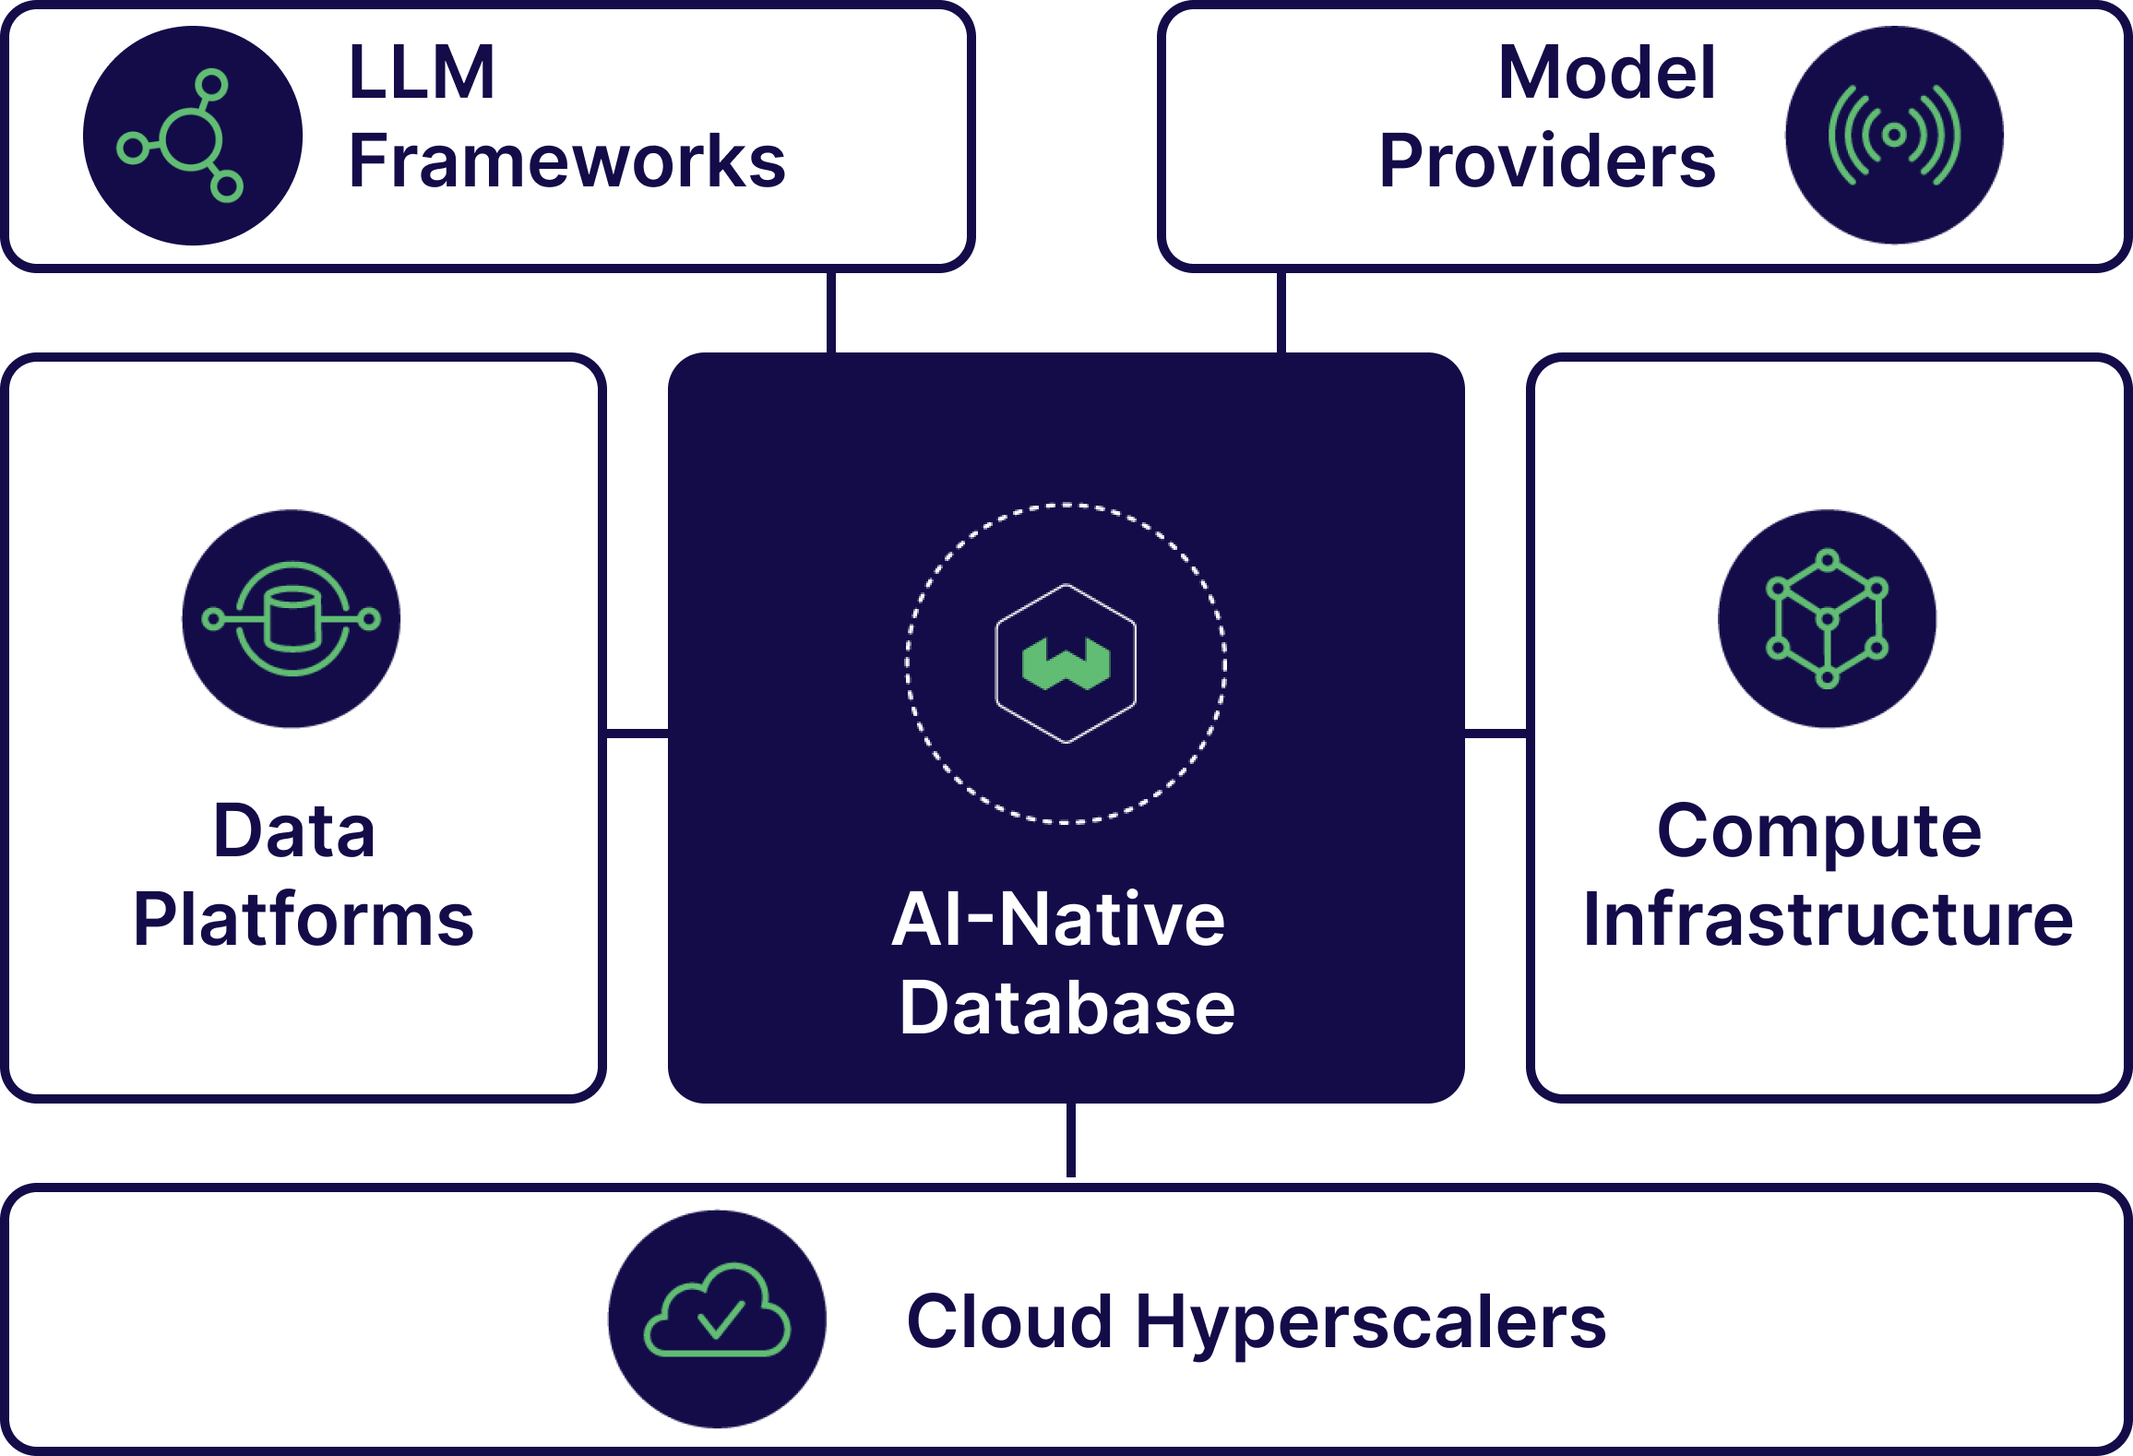
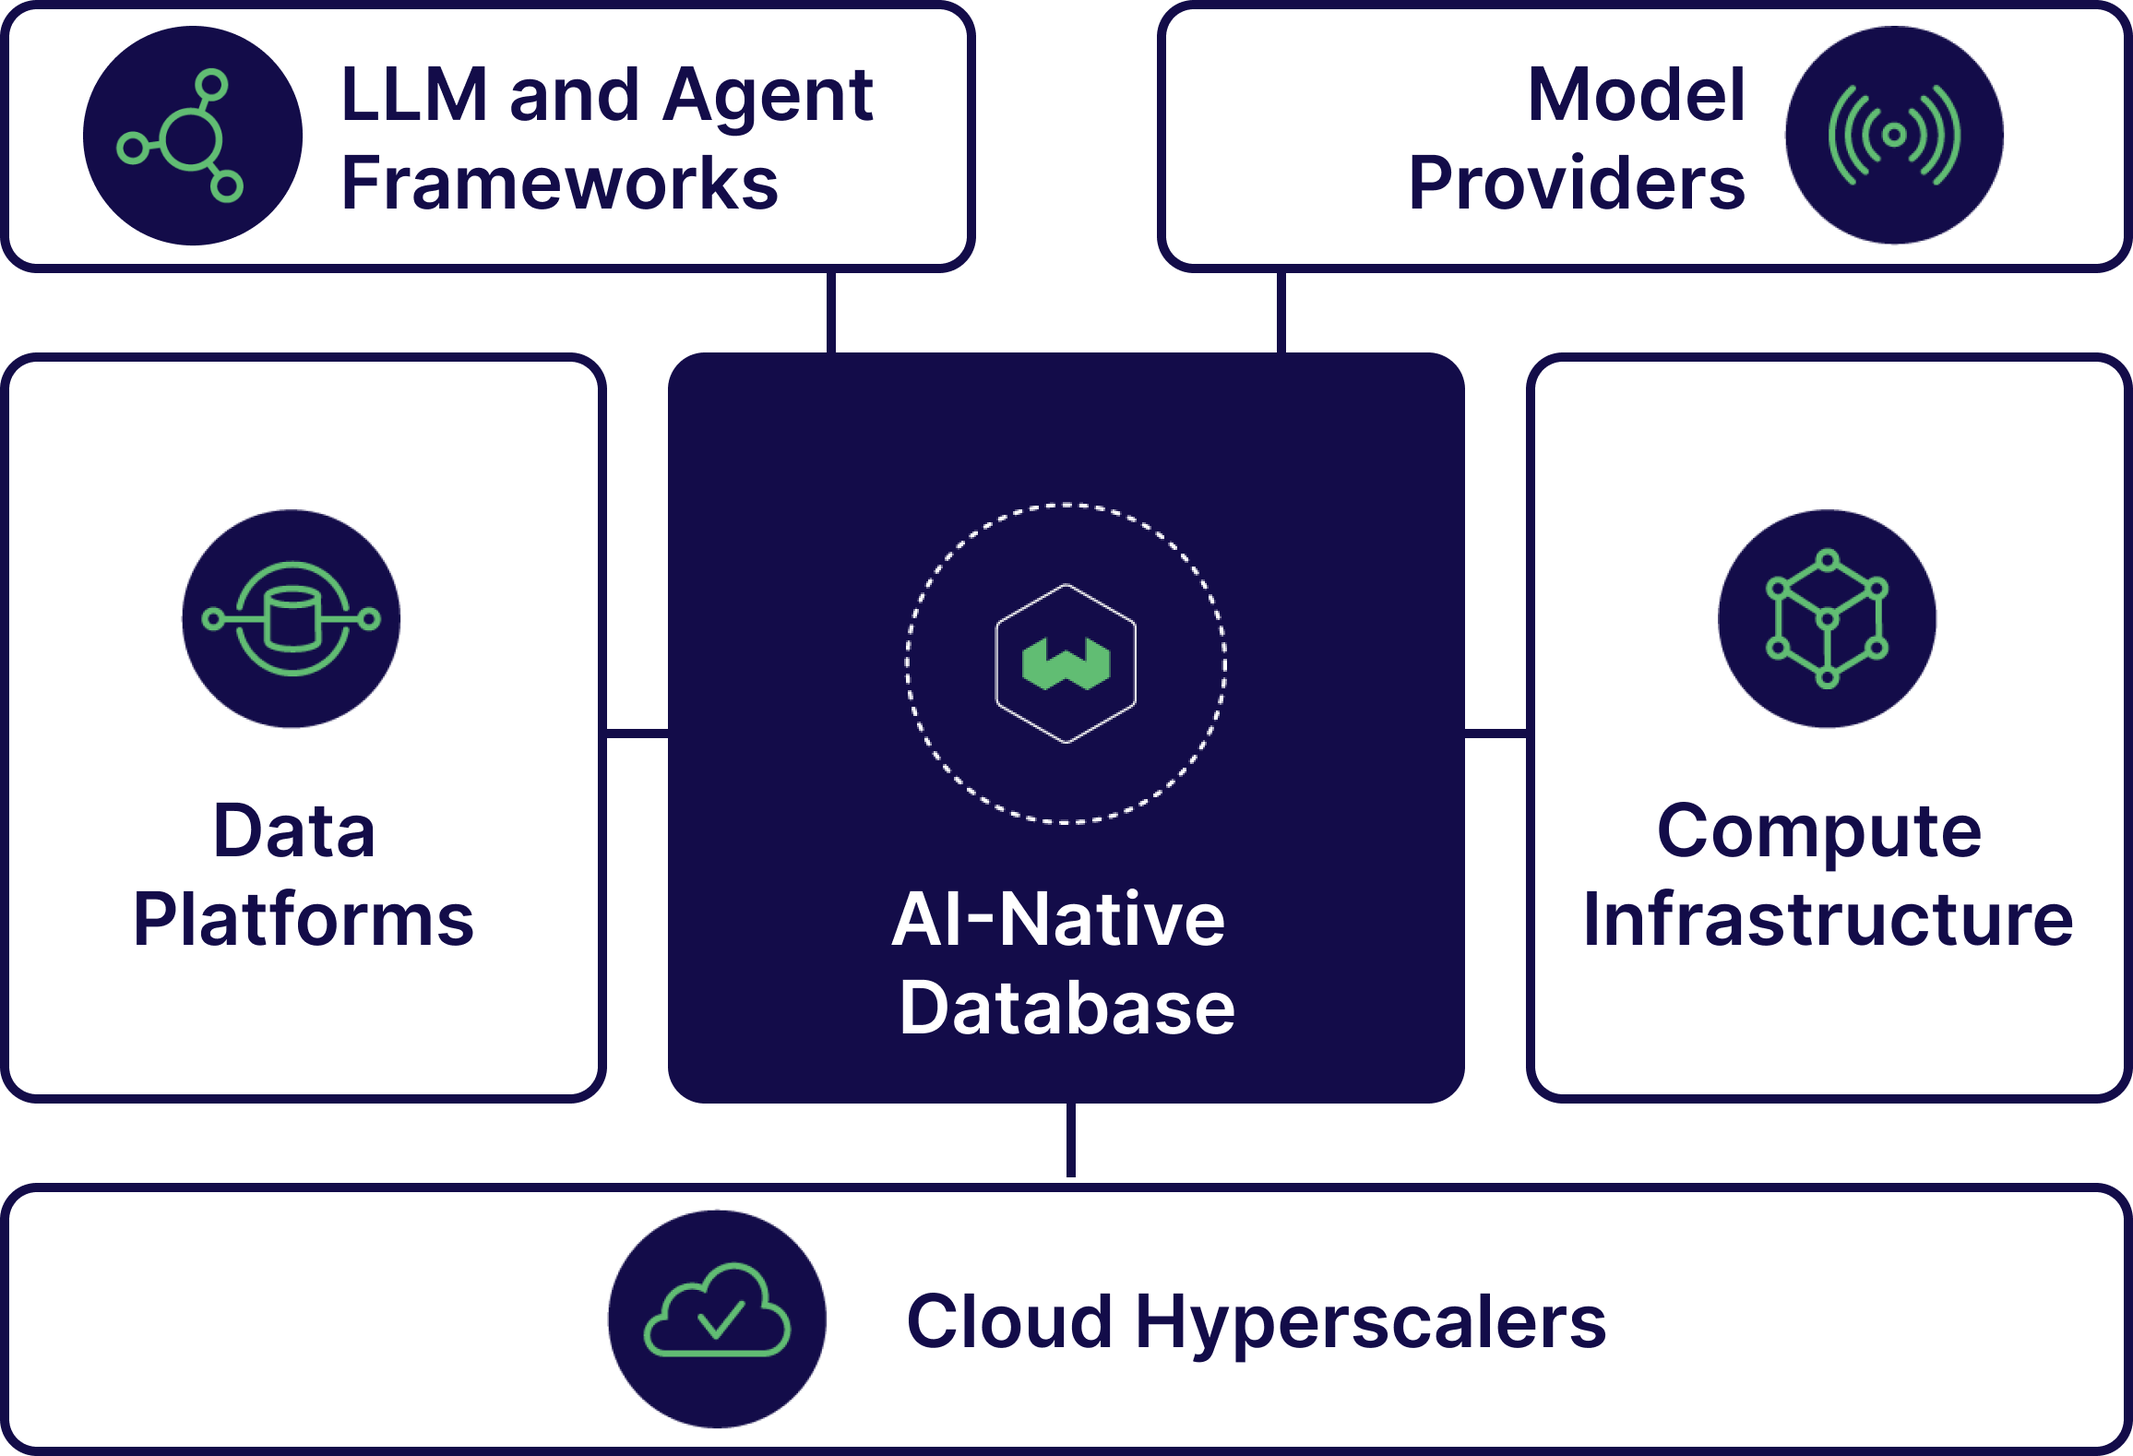
Migrate latest changes

Changed region(s): [[0.1557, 0.0311, 0.4048, 0.1553], [0.6228, 0.0311, 0.8408, 0.1553]]

diff --git a/docs/integrations/llm-agent-frameworks/dspy/index.md b/docs/integrations/llm-agent-frameworks/dspy/index.md
@@ -15,7 +15,7 @@ DSPy introduces two key concepts, the **programming model** and **optimizers**.
 
 Weaviate is integrated with DSPy through the retriever model! 
 
-Connect your Weaviate cluster (WCD or local instance) to DSPy, use the [retriever module](https://dspy.ai/deep-dive/retrieval_models_clients/WeaviateRM) and pass in your collection:
+Connect your Weaviate cluster (WCD or local instance) to DSPy, use the [retriever module](https://dspy-docs.vercel.app/docs/deep-dive/retrieval_models_clients/WeaviateRM) and pass in your collection:
 
 ```python
 weaviate_client = weaviate.Client("http://localhost:8080") # or pass in your WCD cluster url
@@ -39,15 +39,15 @@ The resources are broken into two categories:
 | --- | --- | --- |
 | Getting Started with RAG in DSPy | Learn about DSPy and how to build a program: Installation, settings, datasets, LLM metrics, DSPy programming model, and optimization. | [Notebook](https://github.com/weaviate/recipes/blob/main/integrations/llm-agent-frameworks/dspy/1.Getting-Started-with-RAG-in-DSPy.ipynb), [Video](https://youtu.be/CEuUG4Umfxs?si=4Gp8gR9glmoMJNaU) |
 | DSPy + Weaviate for the Next Generation of LLM Apps | Build a 4-layer DSPy program for generating blog posts from queries. | [Notebook](https://github.com/weaviate/recipes/blob/main/integrations/llm-agent-frameworks/dspy/2.Writing-Blog-Posts-with-DSPy.ipynb), [Video](https://youtu.be/ickqCzFxWj0?si=AxCbD9tq2cbAH6bB)|
-| RAG with Persona | Build a compound AI system with DSPy, Cohere, and Weaviate, where you'll add a persona to the language model. | [Notebook](https://github.com/weaviate/recipes/blob/main/integrations/llm-agent-frameworks/dspy/fullstack-recipes/RAGwithPersona/4.RAG-with-Persona.ipynb), [Post](https://x.com/ecardenas300/status/1765444492348243976)|
+| RAG with Persona | Build a compound AI system with DSPy, Cohere, and Weaviate, where you'll add a persona to the language model. | [Notebook](https://github.com/weaviate/recipes/blob/main/integrations/llm-agent-frameworks/dspy/fullstack-recipes/RAGwithPersona/4.RAG-with-Persona.ipynb), [Post](https://twitter.com/ecardenas300/status/1765444492348243976)|
 | Adding Depth to RAG Programs | Enhancing DSPy programs by integrating unique input-output examples and multiple LLMs. | [Notebook](https://github.com/weaviate/recipes/blob/main/integrations/llm-agent-frameworks/dspy/3.Adding-Depth-to-RAG-Programs.ipynb), [Video](https://youtu.be/0c7Ksd6BG88?si=YUF2wm1ncUTkSuPQ) |
-| Hurricane: Writing Blog Posts with Generative Feedback Loops | Introduction to Hurricane, a web app for demonstrating generative feedback loops with blog posts. | [Notebook](https://github.com/weaviate-tutorials/Hurricane), [Blog](https://weaviate.io/blog/hurricane-generative-feedback-loops) |
+| Hurricane: Writing Blog Posts with Generative Feedback Loops | Introduction to Hurricane, a web app for demonstrating generative feedback loops with blog posts. | [Notebook](https://github.com/weaviate-tutorials/Hurricane), [Blog](/blog/hurricane-generative-feedback-loops) |
 | Structured Outputs with DSPy | The three methods for structuring outputs in DSPy programs. | [Notebook](https://github.com/weaviate/recipes/blob/main/integrations/llm-agent-frameworks/dspy/4.Structured-Outputs-with-DSPy.ipynb), [Video](https://youtu.be/tVw3CwrN5-8?si=P7fWeXzQ7p-2SFYF) |
-| Building RAG with Command R+ from Cohere, DSPy, and Weaviate | Overview of Command R+ with a quick RAG demo in DSPy. | [Notebook](https://github.com/weaviate/recipes/blob/main/integrations/llm-agent-frameworks/dspy/llms/Command-R-Plus.ipynb), [Video](https://youtu.be/6dgXALb_5Ag?si=nSX2AnmpbUau_2JF) |
+| Building RAG with Command R+ from Cohere, DSPy, and Weaviate | Overview of Command R+ with a quick RAG demo in DSPy. | [Notebook](https://github.com/weaviate/recipes/blob/main/integrations/llm-agent-frameworks/dspy/llms/Command-R-Plus.ipynbb), [Video](https://youtu.be/6dgXALb_5Ag?si=nSX2AnmpbUau_2JF) |
 | Advanced Optimizers in DSPy | Dive into optimizing DSPy programs with various techniques. | [Notebook](https://github.com/weaviate/recipes/blob/main/integrations/llm-agent-frameworks/dspy/5.Advanced-Optimizers.ipynb) |
 | Llama 3 RAG Demo with DSPy Optimization, Ollama, and Weaviate | Integrating Llama3 with DSPy and optimizing prompts with MIPRO. | [Notebook](https://github.com/weaviate/recipes/blob/main/integrations/llm-agent-frameworks/dspy/llms/Llama3.ipynb), [Video](https://youtu.be/1h3_h8t3L14?si=G4d-aY5Ynpv8ckea)|
 | BigQuery and Weaviate orchestrated with DSPy | Build an end-to-end RAG pipeline that uses BigQuery and Weaviate using DSPy. | [Notebook](https://github.com/weaviate/recipes/blob/main/integrations/cloud-hyperscalers/google/bigquery/BigQuery-Weaviate-DSPy-RAG.ipynb)|
-
+| DSPy and Weaviate Query Agent | Use the Query Agent as a Tool with DSPy | [Notebook](https://github.com/weaviate/recipes/blob/main/integrations/llm-agent-frameworks/dspy/agents/simple-query-agent-tool.ipynb) |
 
 
 ### Read and Listen
@@ -58,8 +58,8 @@ The resources are broken into two categories:
 | DSPy Explained| Learn about the core concepts of DSPy. Walk through the introduction notebooks to compile a simple retrieve-then-read RAG program and Multi-Hop RAG Program. | [Video](https://youtu.be/41EfOY0Ldkc?si=sFieUeHc9rXRn6uk)|
 | XMC.dspy with Karel D'Oosterlinck - Weaviate Podcast #87 | Karel D'Oosterlinck joins the Weaviate podcast to discuss IReRa (Infer-Retrieve-Rank). | [Video](https://youtu.be/_ye26_8XPcs?si=ZBodgHbOcaq2Kwky)
 | Intro to DSPy: Goodbye Prompting, Hello Programming | Overview of DSPy and how it solves the fragility problem in LLM-based applications. | [Blog](https://towardsdatascience.com/intro-to-dspy-goodbye-prompting-hello-programming-4ca1c6ce3eb9)|
-| Fine-Tuning Cohere’s Reranker | Generate synthetic data with DSPy to fine-tune Cohere’s reranker model. |[Blog](https://weaviate.io/blog/fine-tuning-coheres-reranker)|
-| Your Language Model Deserves Better Prompting | Overview of the DSPy optimizers for prompt tuning. | [Blog](https://weaviate.io/blog/dspy-optimizers)|
+| Fine-Tuning Cohere’s Reranker | Generate synthetic data with DSPy to fine-tune Cohere’s reranker model. |[Blog](/blog/fine-tuning-coheres-reranker)|
+| Your Language Model Deserves Better Prompting | Overview of the DSPy optimizers for prompt tuning. | [Blog](/blog/dspy-optimizers)|
 
 
 ## Questions and feedback

diff --git a/docs/integrations/llm-agent-frameworks/llamaindex/index.md b/docs/integrations/llm-agent-frameworks/llamaindex/index.md
@@ -1,7 +1,7 @@
 ---
 title: LlamaIndex
 sidebar_position: 5
-image: og/integrations/llamaindex.jpg
+image: og/docs/llamaindex.jpg
 ---
 
 [LlamaIndex](https://www.llamaindex.ai/) is a framework for building large language model (LLM) applications. 
@@ -29,12 +29,13 @@ The resources are broken into two categories:
 | Indexes in LlamaIndex | Learn about the various indexes you can build in LlamaIndex. | [Notebook](https://github.com/weaviate/recipes/blob/main/integrations/llm-agent-frameworks/llamaindex/indexes-episode2/indexes-in-llamaindex.ipynb) |
 | Recursive Query Engine | Learn how to build a recursive query engine. | [Notebook](https://github.com/weaviate/recipes/blob/main/integrations/llm-agent-frameworks/llamaindex/recursive-query-engine/recursive-retrieval.ipynb) |
 | Self Correcting Query Engine | Setup your vector store and build a self-correcting query engine. | [Notebook](https://github.com/weaviate/recipes/blob/main/integrations/llm-agent-frameworks/llamaindex/self-correcting-query-engine/self-correcting.ipynb) | 
-| Simple Query Engine | Build a simple query engine | [Notebook](https://github.com/weaviate/recipes/blob/main/integrations/llm-agent-frameworks/llamaindex/simple-query-engine/simple-query-engine.ipynb) |
+| Simple Query Engine | Build a simple query engine | [Notebook](https://github.com/weaviate/recipes/tree/main/integrations/llm-agent-frameworks/llamaindex/simple-query-engine) |
 | SQL Router Query Engine | Build a SQL Query Engine to search through your vector and SQL database. | [Notebook](https://github.com/weaviate/recipes/blob/main/integrations/llm-agent-frameworks/llamaindex/sql-router-query-engine/sql-query-router.ipynb) |
-| Sub-Question Query Engine | Build a query engine that will break down a complex question into multiple parts. | [Notebook](https://github.com/weaviate/recipes/blob/main/integrations/llm-agent-frameworks/llamaindex/sub-question-query-engine/sub_question_query_engine.ipynb) |
+| Sub-Question Query Engine | Build a query engine that will break down a complex question into multiple parts. | [Notebook](https://github.com/weaviate/recipes/blob/main/integrations/llm-agent-frameworks/llamaindex/sub-question-query-engine/sub_question_query_enginev1.ipynb) |
 | Advanced RAG | This notebook walks you through an advanced Retrieval-Augmented Generation (RAG) pipeline using LlamaIndex and Weaviate. | [Notebook](https://github.com/weaviate/recipes/blob/main/integrations/llm-agent-frameworks/llamaindex/retrieval-augmented-generation/advanced_rag.ipynb) | 
-| Naive RAG | This notebook walks you through a naive Retrieval-Augmented Generation (RAG) pipeline using LlamaIndex and Weaviate. | [Notebook](https://github.com/weaviate/recipes/blob/main/integrations/llm-agent-frameworks/llamaindex/retrieval-augmented-generation/naive_rag.ipynb)
-
+| Naive RAG | This notebook walks you through a naive Retrieval-Augmented Generation (RAG) pipeline using LlamaIndex and Weaviate. | [Notebook](https://github.com/weaviate/recipes/blob/main/integrations/llm-agent-frameworks/llamaindex/retrieval-augmented-generation/naive_rag.ipynb) |
+| Agent vs No Agent | Learn the difference between naive RAG, and an agent that has RAG tools. | [Notebook](https://github.com/weaviate/recipes/blob/main/integrations/llm-agent-frameworks/llamaindex/agents/llama-index-weaviate-assistant-agent.ipynb) |
+| LlamaIndex and Weaviate Query Agent | Use the Query Agent as a tool with the LlamaIndex `AgentWorkflow`. | [Notebook](https://github.com/weaviate/recipes/blob/main/integrations/llm-agent-frameworks/llamaindex/agents/agent-workflow-with-weaviate-query-agent-.ipynb) | 
 
 
 ### Read and Listen 

diff --git a/docs/integrations/index.md b/docs/integrations/index.md
@@ -21,7 +21,7 @@ The ecosystem is divided into these categories:
 * **Cloud Hyperscalers** - Large-scale computing and storage
 * **Compute Infrastructure** - Run and scale containerized applications
 * **Data Platforms** - Data ingestion and web scraping 
-* **LLM Frameworks** - Build generative AI applications
+* **LLM and Agent Frameworks** - Build agents and generative AI applications
 * **Operations** - Tools for monitoring and analyzing generative AI workflows
 
 
@@ -33,7 +33,7 @@ The ecosystem is divided into these categories:
 | Cloud Hyperscalers | [AWS](/docs/integrations/cloud-hyperscalers/aws), [Google](/docs/integrations/cloud-hyperscalers/google)|
 | Compute Infrastructure | [Modal](/docs/integrations/compute-infrastructure/modal), [Replicate](/docs/integrations/compute-infrastructure/replicate) |
 | Data Platforms |[Airbyte](/docs/integrations/data-platforms/airbyte), [Aryn](/docs/integrations/data-platforms/aryn/), [Confluent Cloud](/docs/integrations/data-platforms/confluent-cloud), [Astronomer](/docs/integrations/data-platforms/astronomer), [Context Data](/docs/integrations/data-platforms/context-data/), [Databricks](/docs/integrations/data-platforms/databricks/), [Firecrawl](/docs/integrations/data-platforms/firecrawl), [IBM](/docs/integrations/data-platforms/ibm/),  [Unstructured](/docs/integrations/data-platforms/unstructured) |
-| LLM Frameworks | [Composio](/docs/integrations/llm-frameworks/composio/), [DSPy](/docs/integrations/llm-frameworks/dspy/), [Haystack](/docs/integrations/llm-frameworks/haystack/), [LangChain](/docs/integrations/llm-frameworks/langchain/), [LlamaIndex](/docs/integrations/llm-frameworks/llamaindex/), [Semantic Kernel](/docs/integrations/llm-frameworks/semantic-kernel/) |
+| LLM and Agent Frameworks | [Composio](/docs/integrations/llm-agent-frameworks/composio/), [DSPy](/docs/integrations/llm-agent-frameworks/dspy/), [Haystack](/docs/integrations/llm-agent-frameworks/haystack/), [LangChain](/docs/integrations/llm-agent-frameworks/langchain/), [LlamaIndex](/docs/integrations/llm-agent-frameworks/llamaindex/), [Semantic Kernel](/docs/integrations/llm-agent-frameworks/semantic-kernel/) |
 | Operations | [Arize](/docs/integrations/operations/arize/), [Langtrace](/docs/integrations/operations/langtrace/), [LangWatch](/docs/integrations/operations/langwatch/), [Nomic](/docs/integrations/operations/nomic/), [Ragas](/docs/integrations/operations/ragas/), [Weights & Biases](/docs/integrations/operations/wandb/) |
 
 ## Model Provider Integrations 

diff --git a/docs/integrations/llm-agent-frameworks/langchain/index.md b/docs/integrations/llm-agent-frameworks/langchain/index.md
@@ -27,6 +27,7 @@ The resources are broken into two categories:
 | LangChain LCEL | A notebook that defines a language program with LangChain LCEL, compiles it with DSPy, and converts it back to LangChain LCEL. | [Notebook](https://github.com/weaviate/recipes/blob/main/integrations/llm-agent-frameworks/langchain/LCEL/RAG-with-LangChain-LCEL-and-DSPy.ipynb) |
 | LangChain and Multi-Tenancy | Build a multi-language RAG by multiple PDFs per tenant with Langchain, OpenAI, and Weaviate. | [Notebook](https://github.com/weaviate/recipes/blob/main/integrations/llm-agent-frameworks/langchain/loading-data/langchain-simple-pdf-multitenant.ipynb) |
 | Multi-Language RAG | Simple notebook showing you how to build a RAG application using LangChain and Weaviate. | [Notebook](https://github.com/weaviate/recipes/blob/main/integrations/llm-agent-frameworks/langchain/loading-data/langchain-simple-pdf.ipynb) |
+| LangChain and Weaviate Query Agent | Use the Weaviate Query Agent as a tool with LangChain. | [Notebook](https://github.com/weaviate/recipes/blob/main/integrations/llm-agent-frameworks/langchain/agents/langchain-weaviate-query-agent.ipynb) |
 
 
 ### Read and Listen

diff --git a/docs/integrations/llm-agent-frameworks/index.md b/docs/integrations/llm-agent-frameworks/index.md
@@ -1,0 +1,16 @@
+---
+title: LLM and Agent Frameworks
+sidebar_position: 4
+image: og/integrations/home.jpg
+---
+
+These Large Language Model (LLM) and Agent frameworks have tools to help developers build agentic applications with generative models.
+
+Learn how Weaviate integrates with these solutions:
+* [Composio](/docs/integrations/llm-agent-frameworks/composio/)
+* [DSPy](/docs/integrations/llm-agent-frameworks/dspy/)
+* [Haystack](/docs/integrations/llm-agent-frameworks/haystack/)
+* [LangChain](/docs/integrations/llm-agent-frameworks/langchain/)
+* [LlamaIndex](/docs/integrations/llm-agent-frameworks/llamaindex/)
+* [Semantic Kernel](/docs/integrations/llm-agent-frameworks/semantic-kernel/)
+

diff --git a/docs/integrations/llm-agent-frameworks/haystack/index.md b/docs/integrations/llm-agent-frameworks/haystack/index.md
@@ -21,3 +21,4 @@ document_store = WeaviateDocumentStore(auth_client_secret=auth_client_secret)
 | Topic | Description | Resource | 
 | --- | --- | --- |
 | Advanced RAG: Query Expansion | Learn how to implement query expansion for RAG. | [Notebook](https://github.com/weaviate/recipes/blob/main/integrations/llm-agent-frameworks/haystack/query_expansion_haystack_weaviate.ipynb)  |
+| Haystack and Weaviate Query Agent | Use the Query Agent as a tool with Haystack. | [Notebook](https://github.com/weaviate/recipes/blob/main/integrations/llm-agent-frameworks/haystack/haystack-query-agent-tool.ipynb) |
